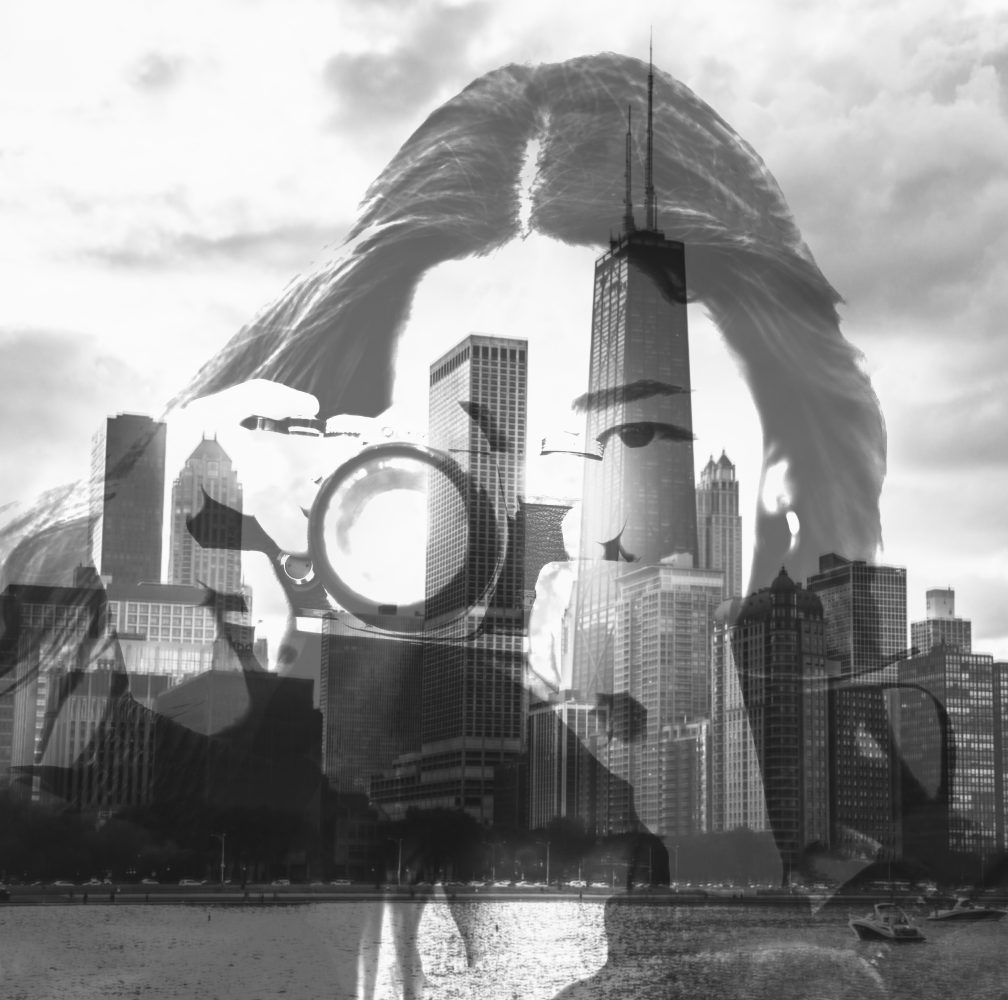
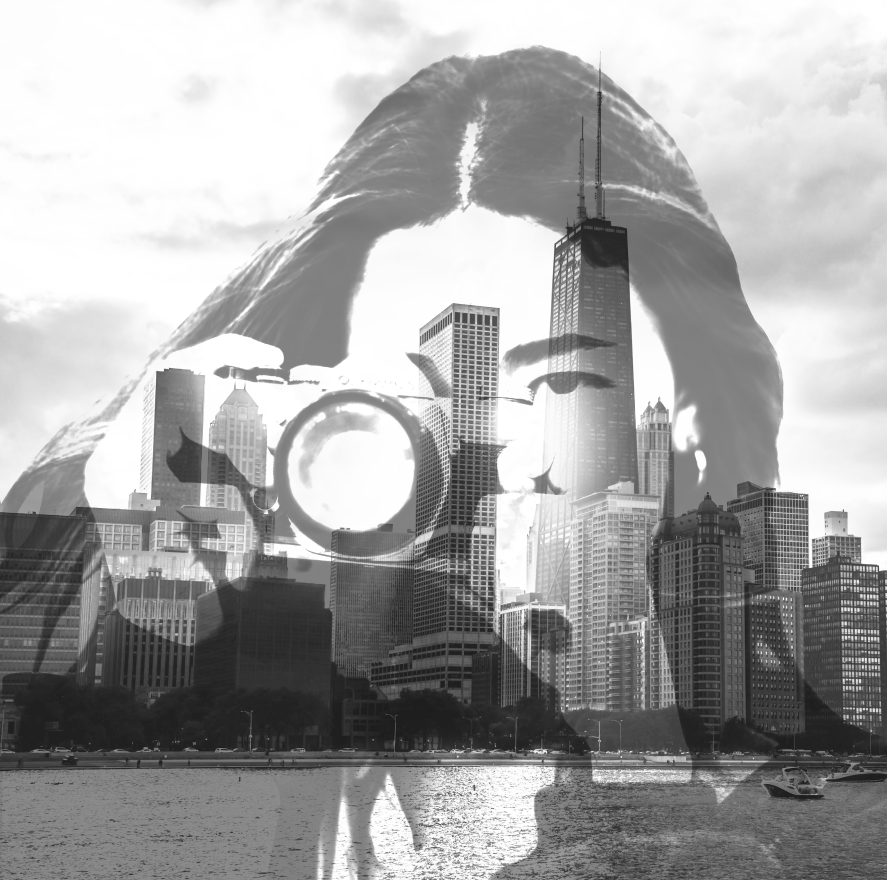
Retouch,add jayess-photographer.png

diff --git a/styles/main-styles.css b/styles/main-styles.css
@@ -250,6 +250,23 @@ CONTENT BUTTON
 	color: #222;
 }
 /* =====================================================================================
+SECTION - TWITTER FEED BY CURATOR.IO 
+===================================================================================== */
+.curator-wrap {
+	width: 100vw;
+	background-color: #FDE6E6;
+	padding: 50px 20px 0px;
+	display: flex;
+	flex-direction: column;
+	align-items: center;
+	justify-content: center;
+}
+#curator-feed {
+	max-width: 1000px;
+	min-width: 200px;
+	width: 100%;
+}
+/* =====================================================================================
 SECTION - MORE PROJECTS - SPRINGBOARD 
 ===================================================================================== */
 .bottom-nav {
@@ -445,3 +462,4 @@ footer {
 			font-size: 0.82em;
 	}
 }
+

diff --git a/index.html b/index.html
@@ -114,7 +114,6 @@
 		</section>
 
 	<!--  BOTTOM NAV - SPRINGBOARD  -->
-
 		<section class="springboard-wip">
 			<h2 id="title-wip">MORE PROJECTS</h2>
 				<a href="daily-ui.html" class="project-box black-bkgd">
@@ -150,5 +149,6 @@
 			</footer>
 		</section>
 	</main>
+
 </body>
 </html>
